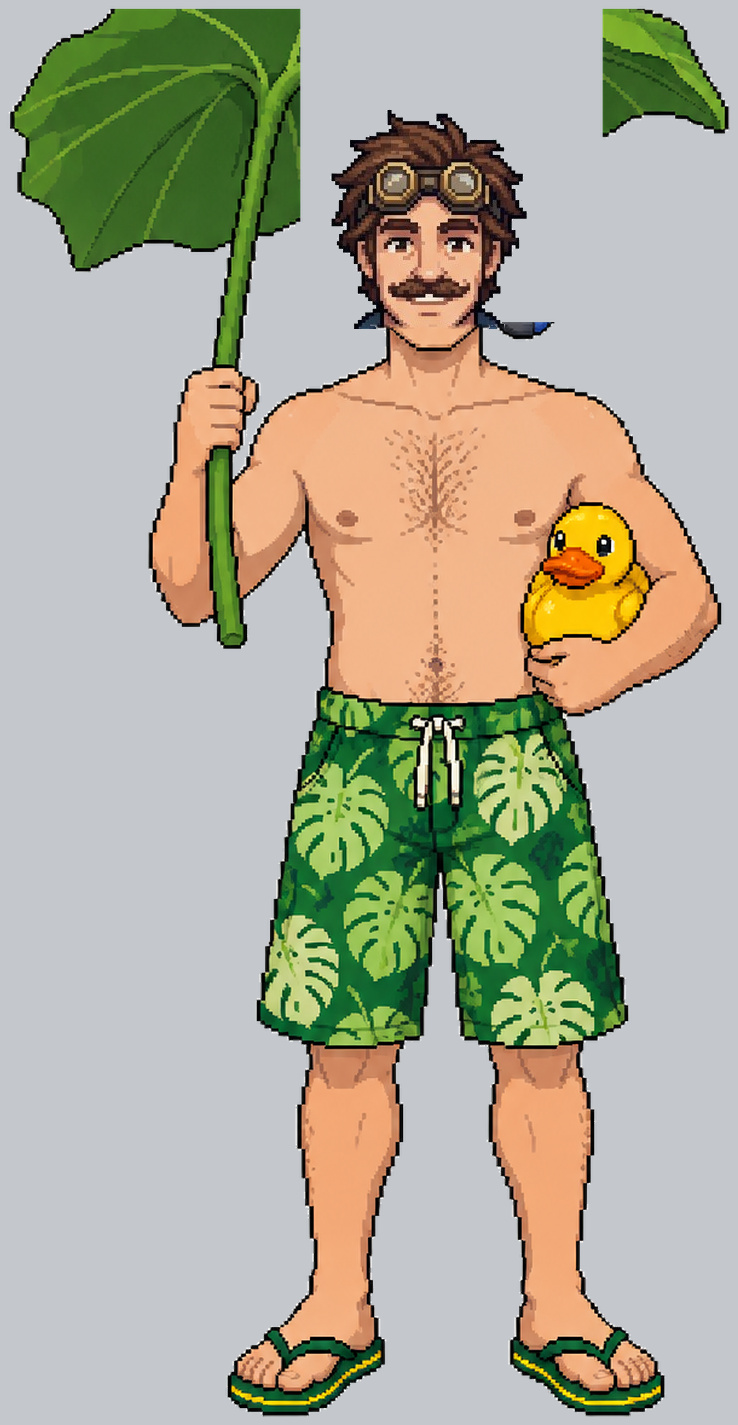
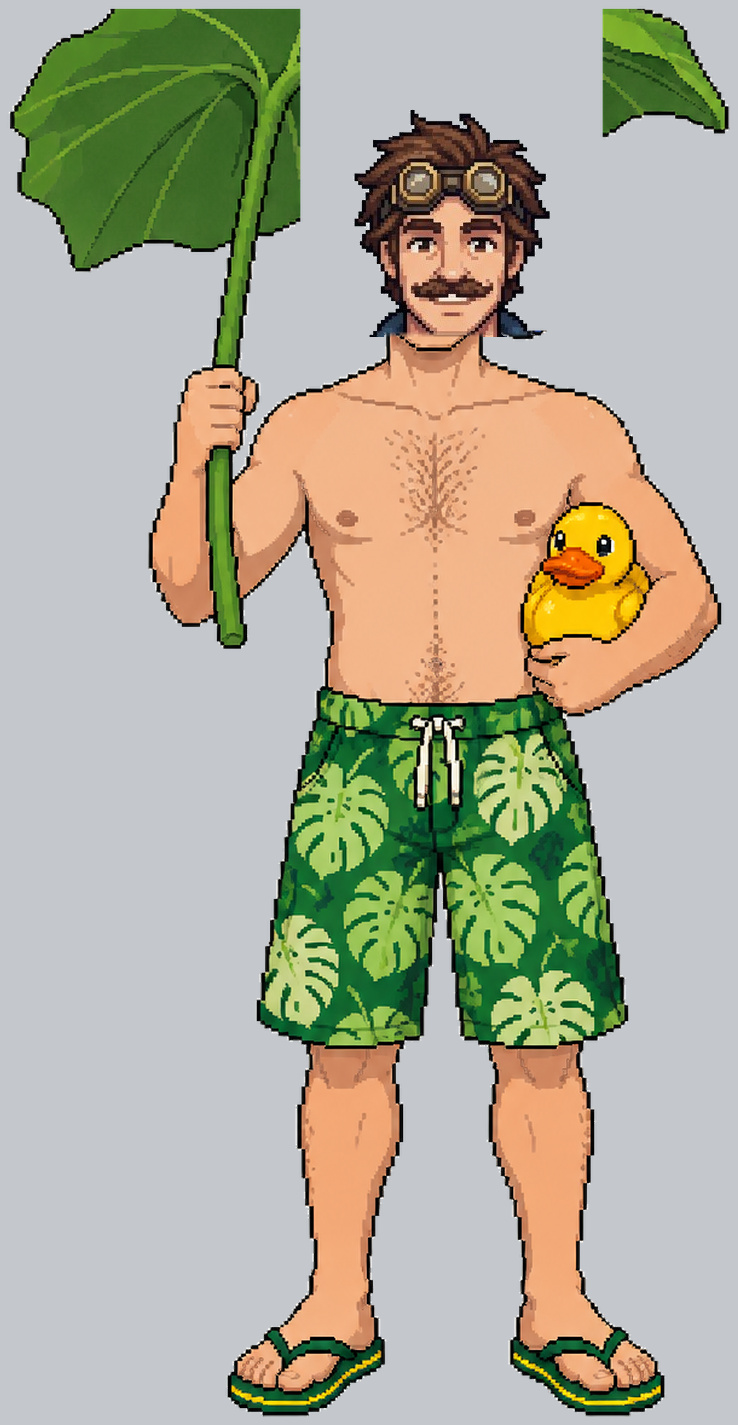
Outfit heads: silhouette paste at the true chin line, face-centre alignment, tone-matched skin, cleaned Gruk/Rosa/Veyra/Bram edges

Changed region(s): [[0.4363, 0.0618, 0.748, 0.247]]

diff --git a/assets/npcs/faces/outfits.py b/assets/npcs/faces/outfits.py
@@ -32,19 +32,19 @@ RING = 5  # rows above the cut that fade into the body
 # 'gen': per outfit, in the generated body (960x1280): chin line, optionally the head's top (when a parasol covers it), and for people whose
 # shoulders rise beside the jaw 'keep' (rows above the chin from which the sides stay) and 'hw' (half width of the erased head window).
 CFG = {
-    'mara': dict(top=33, chin=272, cx=452, head=[(232, 25), (668, 25), (668, 215), (582, 215), (582, 278), (325, 278), (325, 215), (232, 215)],
+    # ref: the chin line used only to scale and align the generated body (hat/hair-top based); chin: the true chin tip of the original face.
+    'mara': dict(top=33, ref=272, chin=283, cx=448, head=[(232, 25), (668, 25), (668, 215), (582, 215), (582, 289), (325, 289), (325, 215), (232, 215)],
                  gen={'sleep': dict(chin=225), 'swim': dict(chin=225)}),
-    'rosa': dict(gen_hair_rows=60, top=42, chin=280, cx=470, head=[(240, 30), (640, 30), (640, 262), (545, 262), (545, 286), (400, 286), (400, 262), (240, 262)],
-                 hair=([[(240, 262), (410, 262), (410, 345), (240, 345)]], 'auburn'),
+    'rosa': dict(gen_hair_rows=110, gen_clear=(26, 70), top=42, ref=280, chin=297, cx=450, head=[(240, 30), (640, 30), (640, 275), (545, 275), (545, 303), (400, 303), (400, 275), (240, 275)],
+                 hair=([[(240, 275), (410, 275), (410, 350), (240, 350)]], 'auburn'),
                  gen={'sleep': dict(chin=235), 'swim': dict(chin=238)}),
-    'gruk': dict(top=13, chin=255, cx=500, head=[(405, 5), (565, 5), (565, 125), (597, 125), (597, 235), (575, 261), (430, 261), (405, 235)], nobrown=100,
-                 gen={'sleep': dict(chin=297, keep=70, hw=95), 'swim': dict(chin=288, keep=70, hw=95)}),
-    'orrin': dict(top=59, chin=273, cx=470, head=[(330, 50), (595, 50), (595, 279), (330, 279)],
+    'gruk': dict(top=13, ref=255, chin=262, cx=468, head=[(385, 5), (560, 5), (560, 262), (535, 268), (402, 268), (385, 262)], nobrown=100,
+                 gen={'sleep': dict(chin=297, keep=70, hw=66), 'swim': dict(chin=288, keep=70, hw=66)}),
+    'orrin': dict(top=59, ref=273, chin=281, cx=447, head=[(330, 50), (595, 50), (595, 287), (330, 287)],
                   gen={'sleep': dict(chin=262), 'swim': dict(chin=355, top=178, keep=90, hw=125, kstart=95)}),
-    'bram': dict(top=66, chin=262, cx=440, head=[(250, 60), (545, 60), (545, 268), (250, 268)], beard=(360, 268, 540, 700),
+    'bram': dict(top=66, ref=262, chin=262, cx=447, head=[(250, 60), (545, 60), (545, 268), (250, 268)], beard=(360, 268, 540, 700),
                  gen={'sleep': dict(chin=185), 'swim': dict(chin=182)}),
-    'veyra': dict(top=25, chin=178, cx=500, head=[(345, 15), (655, 15), (655, 184), (345, 184)],
-                  hair=([[(330, 184), (440, 184), (440, 330), (330, 330)], [(560, 184), (670, 184), (670, 330), (560, 330)]], 'navy'),
+    'veyra': dict(top=25, ref=178, chin=187, cx=479, head=[(345, 15), (655, 15), (655, 140), (560, 193), (440, 193), (345, 140)],
                   gen={'sleep': dict(chin=176), 'swim': dict(chin=173)}),
 }
 
@@ -95,6 +95,7 @@ def poly_mask(size, polys):
 def head_silhouette(c, orig, ofg):
     """Boolean mask of the original's head: its own alpha inside the head polygon (plus Bram's beard, which hangs over the chest)."""
     H, W, _ = orig.shape
+    beard = np.zeros((H, W), bool)
     keep = ofg & poly_mask((W, H), [c['head']])
     keep[round(c['chin'] + CUT):] = False
     if 'nobrown' in c:  # Gruk: the hammer handle and vest straps beside the jaw are wood and leather, not head
@@ -102,7 +103,8 @@ def head_silhouette(c, orig, ofg):
         brown = (o[..., 0] > o[..., 1] + 8) & (o[..., 0] > o[..., 2] + 8)
         dx = np.abs(np.arange(W)[None, :] - c['cx'])
         rows = np.arange(H)[:, None]
-        keep &= ~(brown & (((dx > 85) & (rows >= c['nobrown'])) | ((dx > 40) & (rows >= 212))))
+        notgreen = (o.max(2) >= 45) & (o[..., 0] >= o[..., 1] - 2)
+        keep &= ~(((notgreen & (dx > 66) & (rows >= c['nobrown']) & (rows <= 215))) | (brown & (dx > 40) & (rows >= 212)))
     if 'hair' in c:  # hair that hangs past the cut line stays from the original (roots over the shoulders), picked by colour
         o = orig.astype(int)
         r, g, b = o[..., 0], o[..., 1], o[..., 2]
@@ -118,8 +120,9 @@ def head_silhouette(c, orig, ofg):
         m = np.zeros((H, W), bool)
         m[y0:y1, x0:x1] = ((sat < 26) & (lum > 110) & (lum < 235))[y0:y1, x0:x1]
         lab, _ = ndimage.label(m)
-        keep |= ndimage.binary_dilation(ndimage.binary_closing(lab == lab[y0 + 80, (x0 + x1) // 2], iterations=2), iterations=1) & ofg
-    return keep
+        beard = ndimage.binary_dilation(ndimage.binary_closing(lab == lab[y0 + 80, (x0 + x1) // 2], iterations=2), iterations=1) & ofg
+        keep |= beard
+    return keep, beard
 
 
 def place(dst, src, ox, oy):
@@ -160,8 +163,8 @@ def build(cid, outfit):
     top_g = g.get('top', int(np.where(col.any(axis=1))[0][0]))
     band = gfg[chin_g - 50:chin_g - 10, gcx0 - 140:gcx0 + 140]
     cx_g = float(np.median(np.where(band)[1])) + gcx0 - 140
-    s = (c['chin'] - c['top']) / (chin_g - top_g)
-    cut_g = chin_g + CUT / s
+    s = (c['ref'] - c['top']) / (chin_g - top_g)
+    cut_g = chin_g + (c['chin'] + CUT - c['ref']) / s
     # the generated body's skin takes on the original face's skin tone, so neck, chest and arms match the pasted head
     body_rgb = tone_match(gen, gfg, orig, ofg, c, chin_g, s, cx_g)
     # (2) erase the generated head
@@ -177,12 +180,16 @@ def build(cid, outfit):
         gi = gen.astype(int)
         hairy = (gi[..., 0] >= 110) & (gi[..., 1] >= 62) & (gi[..., 1] <= 130) & (gi[..., 0] - gi[..., 1] < 105) & (gi[..., 2] < 80) & (gi[..., 0] - gi[..., 2] > 60)
         galpha &= ~(hairy & (gy < cut_g + c['gen_hair_rows']))
+    if c.get('gen_clear'):  # stray strands beside the neck (they belonged to the erased head)
+        rows_, half = c['gen_clear']
+        galpha[int(cut_g - RING / s):int(cut_g + rows_), :int(cx_g - half)] = False
+        galpha[int(cut_g - RING / s):int(cut_g + rows_), int(cx_g + half):] = False
     body = Image.fromarray(np.dstack([body_rgb, (galpha * 255).astype(np.uint8)]), 'RGBA')
     nw, nh = round(gen.shape[1] * s), round(gen.shape[0] * s)
     body = body.resize((nw, nh), Image.LANCZOS)
-    bx, by = round(c['cx'] - cx_g * s), round(c['chin'] - chin_g * s)
+    bx, by = round(c['cx'] - cx_g * s), round(c['ref'] - chin_g * s)
     # (4) the silhouette of the original head, down to the cut line (Bram's beard continues below it)
-    sil = head_silhouette(c, orig, ofg)
+    sil, beard_m = head_silhouette(c, orig, ofg)
     ba = np.array(body)[..., 3] > 8
     bys, bxs = np.where(ba)
     hys, hxs = np.where(sil)
@@ -201,11 +208,24 @@ def build(cid, outfit):
     place(alpha, sil.astype(float), -x0, -y0)
     # (5) the last RING rows above the cut fade into the body underneath
     cut = round(c['chin'] + CUT) - y0
-    if 'beard' not in c:
-        for i in range(RING):
-            r = cut - 1 - i
-            w = 1.0 - (i + 1) / (RING + 1)  # how much of the body shows: 0.83 just above the cut, 0.17 five rows up
-            alpha[r] = np.where(bodyA[r], alpha[r] * (1 - w), alpha[r])
+    bm = np.zeros((CH, CW), bool)
+    place(bm, beard_m, -x0, -y0)
+    for i in range(RING):
+        r = cut - 1 - i
+        w = 1.0 - (i + 1) / (RING + 1)  # how much of the body shows: 0.83 just above the cut, 0.17 five rows up
+        alpha[r] = np.where(bodyA[r] & ~bm[r], alpha[r] * (1 - w), alpha[r])
+    if 'keep' in g and cid == 'gruk':  # the erased head window is wider than the original's neck: close the gap from the surrounding body
+        import cv2
+
+        gap = np.zeros((CH, CW), np.uint8)
+        wx0, wx1 = round(bx + (cx_g - g['hw']) * s) - x0, round(bx + (cx_g + g['hw']) * s) - x0
+        wy0, wy1 = round(by + g.get('kstart', chin_g - g['keep']) * s) - y0, cut
+        gap[max(wy0, 0):wy1, max(wx0, 0):wx1] = 1
+        tmp = np.zeros((CH, CW), bool)
+        place(tmp, sil, -x0, -y0)
+        gap = ((gap > 0) & ~bodyA & ~tmp).astype(np.uint8) * 255
+        gap = cv2.dilate(gap, np.ones((3, 3), np.uint8))
+        out = cv2.inpaint(out.round().astype(np.uint8), gap, 6, cv2.INPAINT_TELEA).astype(float)
     padded = np.zeros((CH, CW, 3))
     place(padded, orig.astype(float), -x0, -y0)
     res = (padded * alpha[..., None] + out * (1 - alpha[..., None])).round().astype(np.uint8)
